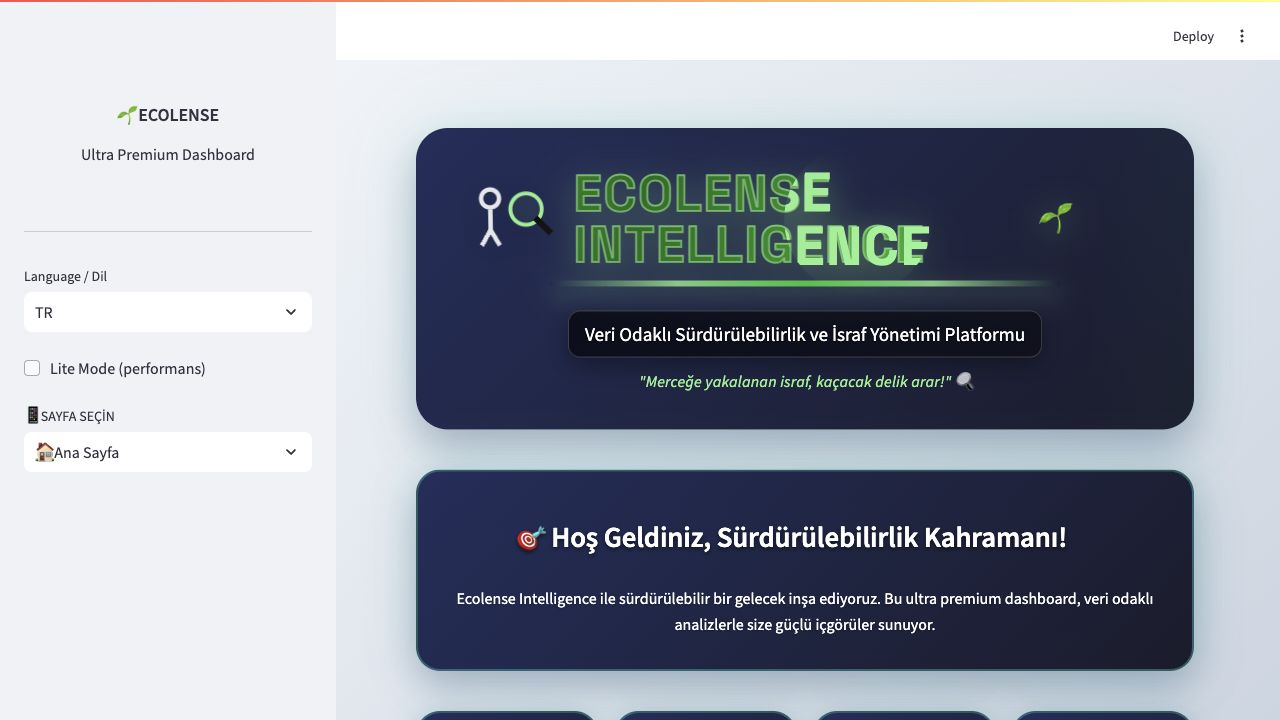
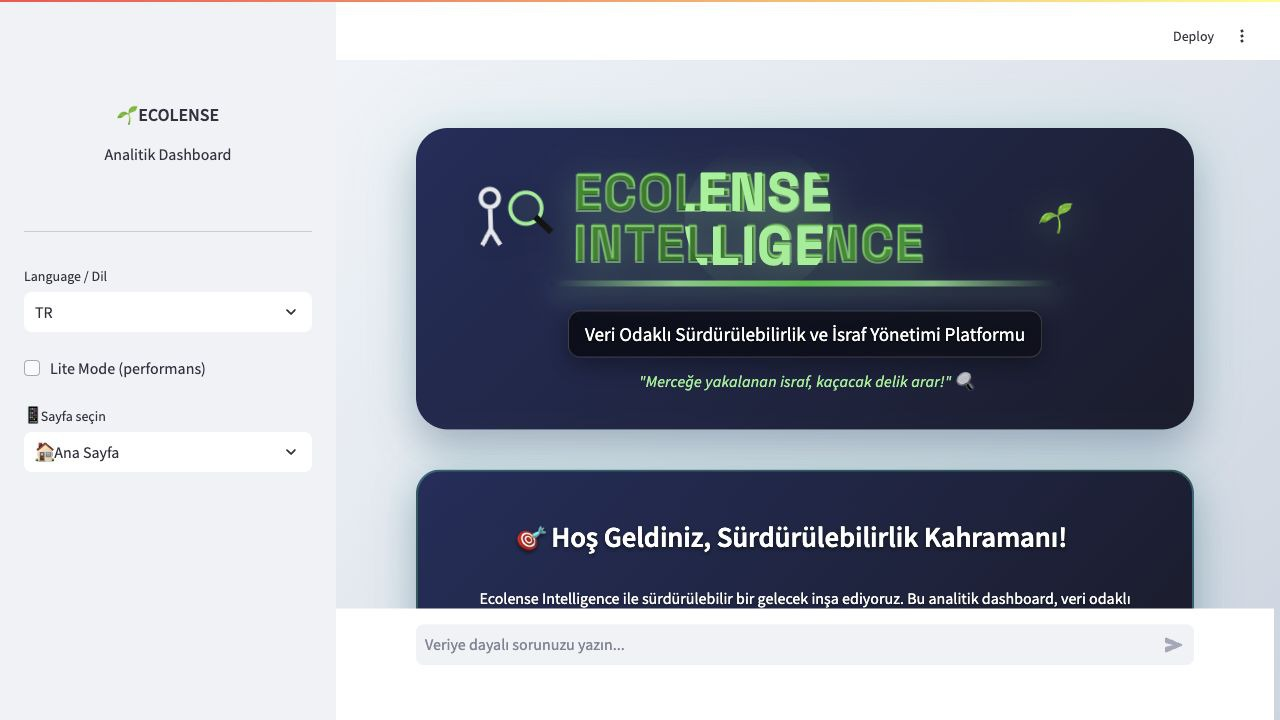
Refresh dashboard screenshots for README

diff --git a/app.py b/app.py
@@ -765,6 +765,33 @@ def load_css():
     /* Ana tema */
     .main { background: linear-gradient(135deg, #F8FAFC 0%, #E2E8F0 50%, #CBD5E1 100%); }
 
+    /* Koyu marka başlıklarında Streamlit'in varsayılan başlık rengini bastır */
+    div[style*="#232E5C"] h1, div[style*="#232E5C"] h2, div[style*="#232E5C"] h3,
+    div[style*="#1A1C2C"] h1, div[style*="#1A1C2C"] h2, div[style*="#1A1C2C"] h3,
+    div[style*="#1F3B4D"] h1, div[style*="#1F3B4D"] h2, div[style*="#1F3B4D"] h3,
+    div[style*="#182235"] h1, div[style*="#182235"] h2, div[style*="#182235"] h3,
+    div[style*="#28445E"] h1, div[style*="#28445E"] h2, div[style*="#28445E"] h3,
+    div[style*="#1A2838"] h1, div[style*="#1A2838"] h2, div[style*="#1A2838"] h3,
+    div[style*="#173F35"] h1, div[style*="#173F35"] h2, div[style*="#173F35"] h3,
+    div[style*="#132E2A"] h1, div[style*="#132E2A"] h2, div[style*="#132E2A"] h3,
+    div[style*="#203F2F"] h1, div[style*="#203F2F"] h2, div[style*="#203F2F"] h3,
+    div[style*="#17291F"] h1, div[style*="#17291F"] h2, div[style*="#17291F"] h3,
+    div[style*="#2D3748"] h1, div[style*="#2D3748"] h2, div[style*="#2D3748"] h3,
+    div[style*="#5B5136"] h1, div[style*="#5B5136"] h2, div[style*="#5B5136"] h3,
+    div[style*="#5B3636"] h1, div[style*="#5B3636"] h2, div[style*="#5B3636"] h3 {
+        color: #FFFFFF !important;
+        text-shadow: 0 2px 4px rgba(0,0,0,0.32);
+    }
+    div[style*="color: white"] h1,
+    div[style*="color: white"] h2,
+    div[style*="color: white"] h3,
+    div[style*="color: white"] h4,
+    div[style*="color: white"] h5,
+    div[style*="color: white"] h6 {
+        color: #FFFFFF !important;
+        text-shadow: 0 2px 4px rgba(0,0,0,0.35);
+    }
+
     /* Ana başlık */
     .main-header {
         --brand-side: clamp(72px, 7vw, 96px);
